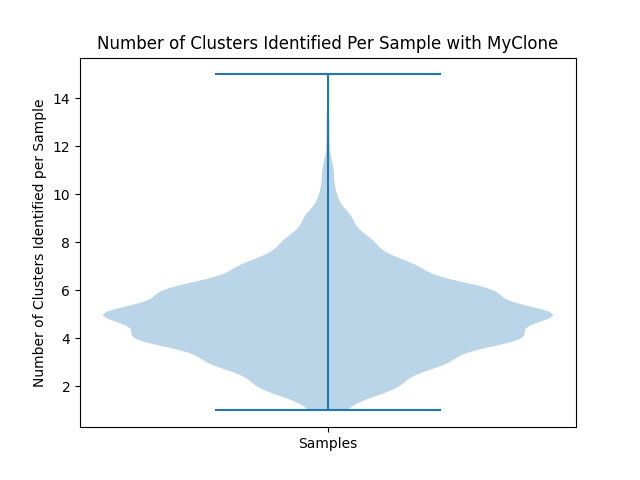
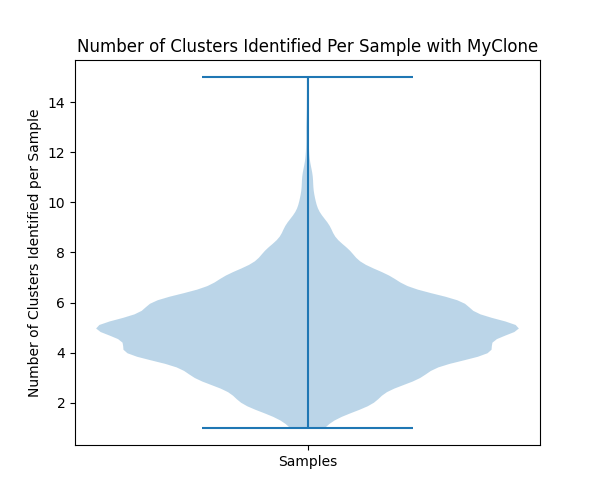
fixed relapse cluster figure

Changed region(s): [[0.12, 0.1562, 0.9, 0.9375], [0.12, 0.0625, 0.9, 0.125], [0.03, 0.1875, 0.12, 0.8125]]

diff --git a/generate_figures.py b/generate_figures.py
@@ -2,7 +2,7 @@ import pandas as pd
 import matplotlib.pyplot as plt
 import seaborn as sns
 
-output_file_path = "/Users/charlottecheung/Developer/FCBBioInfo/fcbbioProject/pyclone_output_combined/pyclone_output_combined.tsv"
+output_file_path = "/Users/charlottecheung/Developer/FCBBioInfo/fcbbioProject/myclone-output_combined/myclone_results_combined.tsv"
 #myclone_output_file_path = "/Users/charlottecheung/Developer/FCBBioInfo/fcbbioProject/myclone-output_combined/myclone_results_combined.tsv"
 #pyclone_output_file_path = "/Users/charlottecheung/Developer/FCBBioInfo/fcbbioProject/pyclone_output_combined/pyclone_output_combined.tsv"
 df = pd.read_csv(output_file_path, sep="\t")
@@ -14,17 +14,19 @@ clusters_per_sample = (
 )
 
 #figure: number of clusters per sample
-
+plt.figure(figsize=(6,5))
 plt.violinplot(
     clusters_per_sample["num_clusters"],
 )
 plt.ylabel("Number of Clusters Identified per Sample")
 plt.xticks([1], ["Samples"])
-plt.title("Number of Clusters Identified Per Sample with PyClone")
-plt.savefig("figures/pyclone_num_clusters_violin_plot.png")
+plt.title("Number of Clusters Identified Per Sample with MyClone")
+plt.savefig("figures/myclone_num_clusters_violin_plot.png")
 #plt.show()
+plt.close()
 
 #figure: number of clusters per sample, relapse vs non relapse
+"""
 meta = df[["sample_id", "relapse_status"]].drop_duplicates()
 
 plot_df = clusters_per_sample.merge(meta, on="sample_id")
@@ -34,11 +36,30 @@ sns.violinplot(
     y="num_clusters"
 )
 
-plt.title("Number of Clusters Identified per Sample with PyClone by Relapse Status")
+plt.title("Number of Clusters Identified per Sample with MyClone by Relapse Status")
 plt.xlabel("Relapse Status")
 plt.ylabel("Number of Clusters")
-plt.savefig("figures/pyclone_num_clusters_relapse_violin_plot.png")
+plt.savefig("figures/myclone_num_clusters_relapse_violin_plot.png")
 #plt.show()
+"""
+
+meta = df[["sample_id", "relapse_status"]].drop_duplicates()
+plot_df = clusters_per_sample.merge(meta, on="sample_id")
+
+plt.figure(figsize=(6,5))
+
+sns.violinplot(
+    data=plot_df,
+    x="relapse_status",
+    y="num_clusters"
+)
+
+plt.title("Number of Clusters Identified per Sample with MyClone by Relapse Status")
+plt.xlabel("Relapse Status")
+plt.ylabel("Number of Clusters")
+
+plt.savefig("figures/myclone_num_clusters_relapse_violin_plot.png")
+plt.close()
 
 #figure: number of clusters per sample vs MRD
 mrd = df[["sample_id", "MRD_EOI_Pct"]].drop_duplicates()
@@ -53,25 +74,29 @@ plt.scatter(
 
 plt.xlabel("Number of Clusters per Sample")
 plt.ylabel("MRD (%)")
-plt.title("MRD vs Clonal Complexity (PyClone)")
-plt.savefig("figures/pyclone_mrd_vs_clusters_scatter.png")
+plt.title("MRD vs Clonal Complexity (MyClone)")
+plt.savefig("figures/myclone_mrd_vs_clusters_scatter.png")
 #plt.show()
+plt.close()
 
 #figure: Shannon index per sample
 shannon_index = df[["sample_id", "shannon_index"]].drop_duplicates()
 
 plot_df = clusters_per_sample.merge(shannon_index, on="sample_id")
 
+plt.figure(figsize=(6,5))
+
 sns.violinplot(
     data=plot_df,
     y="shannon_index"
 )
 
-plt.title("Clonal Diversity per Sample with PyClone")
+plt.title("Clonal Diversity per Sample with MyClone")
 plt.xlabel("Samples")
 plt.ylabel("Shannon Index")
-plt.savefig("figures/pyclone_shannon_violin.png")
+plt.savefig("figures/myclone_shannon_violin.png")
 #plt.show()
+plt.close()
 
 #figure: Shannon index per sample relapse vs non-relapse
 shannon_df = df[["sample_id", "shannon_index"]].drop_duplicates()
@@ -87,12 +112,13 @@ sns.violinplot(
     y="shannon_index"
 )
 
-plt.title("Clonal Diversity (Shannon Index) by Relapse Status (PyClone)")
+plt.title("Clonal Diversity (Shannon Index) by Relapse Status (MyClone)")
 plt.xlabel("Relapse Status")
 plt.ylabel("Shannon Index")
 
-plt.savefig("figures/pyclone_shannon_by_relapse.png")
+plt.savefig("figures/myclone_shannon_by_relapse.png")
 #plt.show()
+plt.close()
 
 #figure: shannon index per sample vs MRD
 mrd = df[["sample_id", "MRD_EOI_Pct"]].drop_duplicates()
@@ -107,14 +133,16 @@ plt.scatter(
 
 plt.xlabel("Shannon Index")
 plt.ylabel("MRD (%)")
-plt.title("MRD vs Clonal Diversity (PyClone)")
-plt.savefig("figures/pyclone_mrd_vs_shannon_scatter.png")
+plt.title("MRD vs Clonal Diversity (MyClone)")
+plt.savefig("figures/myclone_mrd_vs_shannon_scatter.png")
 #plt.show()
+plt.close()
 
 #figure: Subclonal vs clonal by CCF
 df["clone_type"] = df["cellular_prevalence"].apply(
     lambda x: "clonal" if x >= 0.5 else "subclonal"
 )
+plt.figure(figsize=(6,5))
 
 counts = (
     df.groupby(["sample_id", "clone_type"])
@@ -146,9 +174,12 @@ pivot.plot(
 )
 
 plt.ylabel("Percentage of Mutations")
-plt.title("Clonal vs Subclonal Mutations by Relapse Status (PyClone)")
+plt.title("Clonal vs Subclonal Mutations by Relapse Status (MyClone)")
 plt.legend(title="Clone Type")
 plt.xticks(rotation=0)
 
-plt.savefig("figures/pyclone_clonal_subclonal_relapse_stacked_bar.png")
-plt.show()
+plt.savefig("figures/myclone_clonal_subclonal_relapse_stacked_bar.png")
+#plt.show()
+plt.close()
+
+
